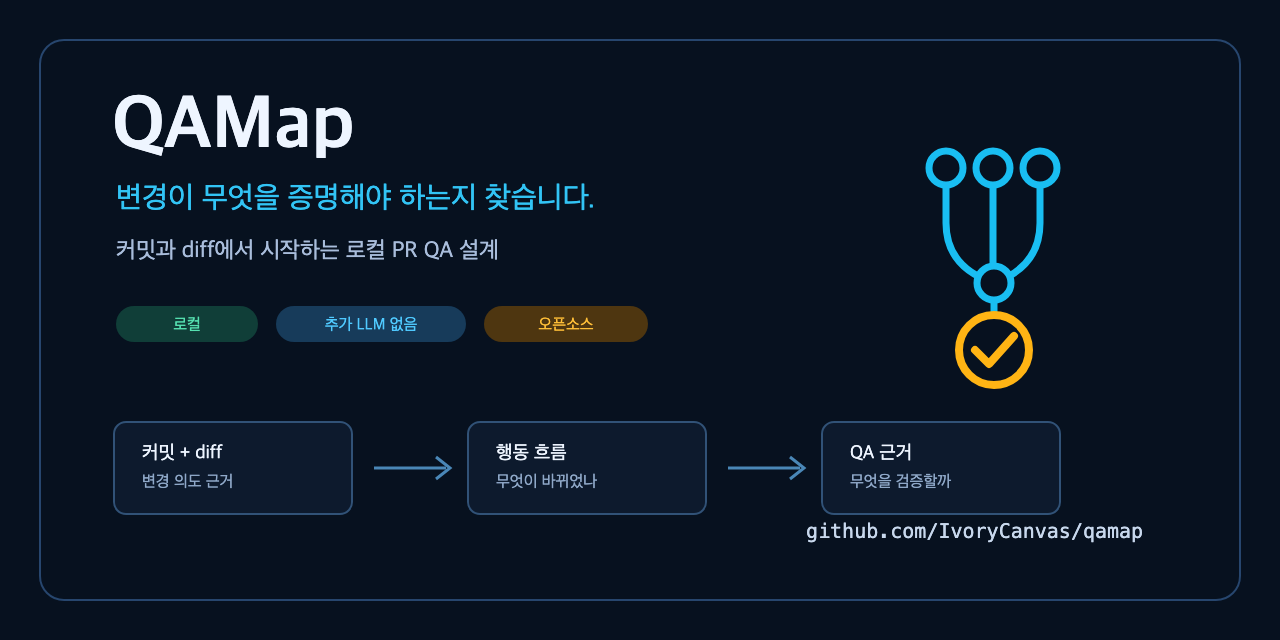
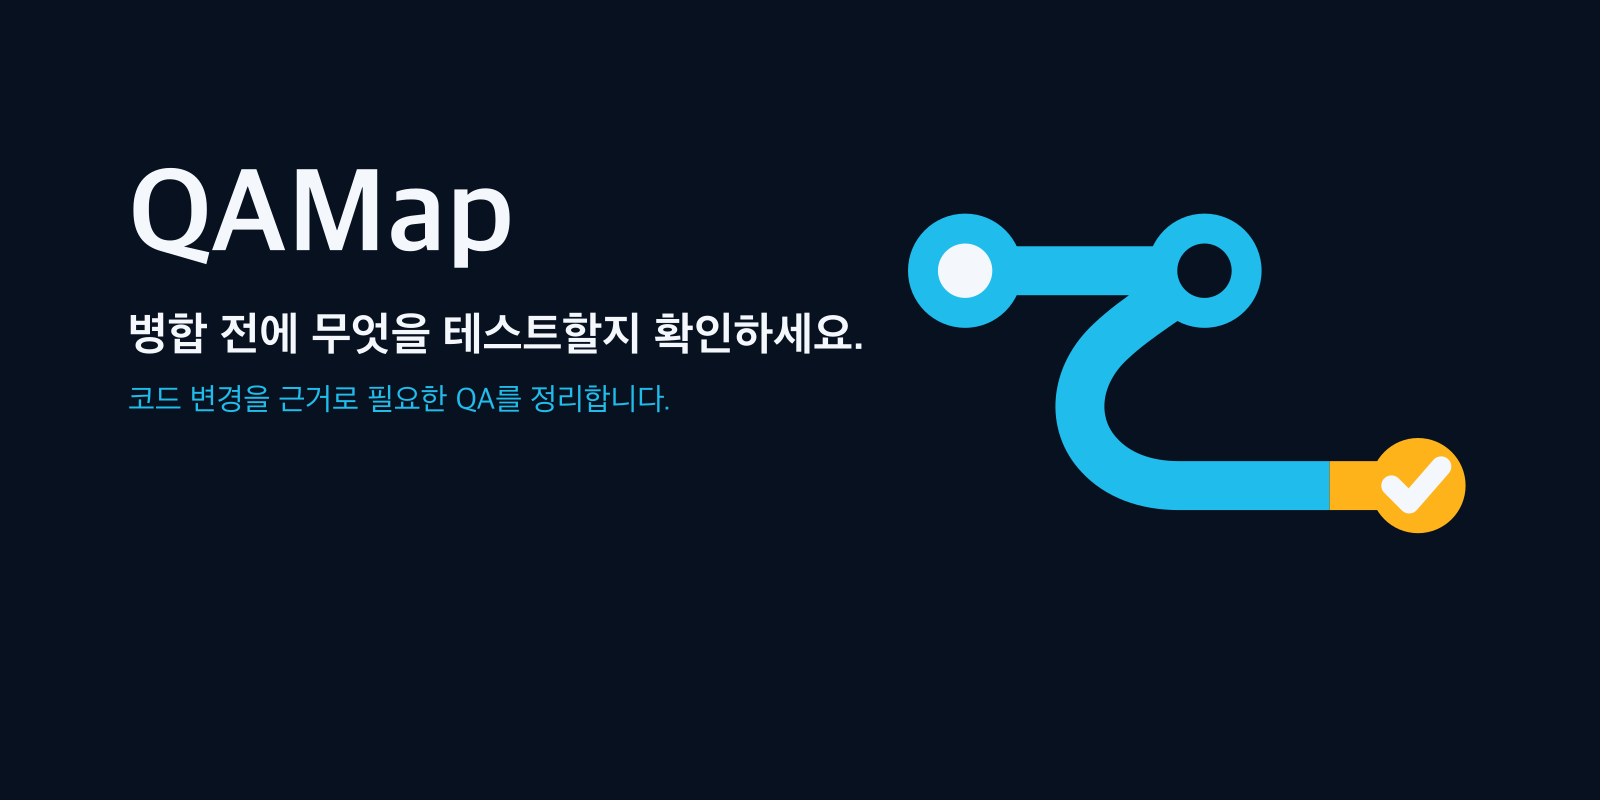
style: refresh public brand assets (#223)

diff --git a/docs/plugin-submission.md b/docs/plugin-submission.md
@@ -2,12 +2,18 @@
 
 QAMap packages one `skills-only` plugin for the shared OpenAI Plugins Directory. It reuses the same local CLI and `qamap.qa` contract as every other QAMap integration. It does not add an MCP server, hosted service, background hook, or second QA engine.
 
-QAMap `0.4.12` is currently approved and [published in the OpenAI Plugin Directory](https://chatgpt.com/plugins/plugins_6a752ca134a481919b90c45c09ab1629). npm and GitHub releases can move ahead independently; a newer directory version requires a fresh upload and review. This repository remains the source of truth for the reviewed skill package and future listing updates.
+QAMap is [published in the OpenAI Plugin Directory](https://chatgpt.com/plugins/plugins_6a752ca134a481919b90c45c09ab1629). npm, GitHub, and directory releases move independently. The public listing is the source of truth for the currently approved directory version; a newer npm or GitHub release requires a fresh upload and review before it appears there.
 
 Publishing a newer npm package or repository release does not update the
 directory listing automatically. Keep the approved version available, upload
 the replacement package as a new plugin version, and publish it only after the
 replacement passes review.
+
+| Channel | Current version source | How it updates |
+| --- | --- | --- |
+| npm | [npm package](https://www.npmjs.com/package/@ivorycanvas/qamap) | Maintainer publication |
+| GitHub | [GitHub Releases](https://github.com/IvoryCanvas/QAMap/releases) | Tagged repository release |
+| OpenAI Plugin Directory | [Public QAMap listing](https://chatgpt.com/plugins/plugins_6a752ca134a481919b90c45c09ab1629) | Separate upload, review, and publication |
 
 ## Product Boundary
 
@@ -26,6 +32,7 @@ replacement passes review.
 | `skills/qamap-pr-qa/SKILL.md` | The single agent workflow |
 | `skills/qamap-pr-qa/agents/openai.yaml` | Skill presentation and invocation metadata |
 | `plugin/submission.json` | Listing copy, starter prompts, and evaluation cases |
+| `plugin/assets/` | Dedicated light and dark plugin and composer icons |
 | `PRIVACY.md` | Local data and network boundaries |
 | `TERMS.md` | Usage terms and warranty boundary |
 | `SUPPORT.md` | Public support and security routes |
@@ -47,6 +54,21 @@ pnpm plugin:smoke
 
 The repository CI and `release:check` run both gates.
 
+## Listing Images
+
+Use the dedicated image for each upload slot instead of resizing or cropping a
+README cover:
+
+| Upload slot | Repository asset |
+| --- | --- |
+| Plugin icon, light mode | `plugin/assets/qamap-plugin-light-256.png` |
+| Plugin icon, dark mode | `plugin/assets/qamap-plugin-dark-256.png` |
+| Composer icon, light mode | `plugin/assets/qamap-composer-light-48.png` |
+| Composer icon, dark mode | `plugin/assets/qamap-composer-dark-48.png` |
+
+The portable skill continues to use the canonical 512px icon at
+`skills/qamap-pr-qa/assets/qamap-logo.png`.
+
 ## Maintainer Submission And Update Sequence
 
 1. Complete the normal QAMap release gate and publish the exact package version referenced by the skill.
@@ -54,7 +76,7 @@ The repository CI and `release:check` run both gates.
 3. Confirm the submitting OpenAI account has completed identity verification and has Apps Management write permission.
 4. Open the [OpenAI plugin submission portal](https://platform.openai.com/plugins) and create a skills-only submission.
 5. Use `plugin/submission.json` as the source of truth for listing copy, starter prompts, and the five positive and three negative evaluations.
-6. Upload the canonical logo from `skills/qamap-pr-qa/assets/qamap-logo.png`.
+6. Upload all four dedicated images listed in **Listing Images**.
 7. Review every requested permission and test receipt before submitting.
 8. For a new plugin version, keep the currently published listing available until the replacement has been reviewed and is visible.
 

diff --git a/docs/releasing.md b/docs/releasing.md
@@ -24,6 +24,8 @@ Before publishing, confirm:
 - The canonical release identifier is `vX.Y.Z` (for example, `v0.4.0`). The Git tag and GitHub Release title must match this identifier exactly.
 - `CHANGELOG.md` has a dated section for the version being published.
 - `README.md`, [adoption](adoption.md), [E2E examples](e2e-output-examples.md), and [release validation](release-validation.md) describe the current CLI behavior.
+- npm, GitHub Releases, and the OpenAI Plugin Directory are described as independent release channels; no document hard-codes an older directory version as current.
+- If public branding changed, the README covers, skill icon, dedicated plugin upload images, and `docs/assets/qamap-social-card.png` have been reviewed at their intended sizes.
 - `pnpm run release:check` passes from a clean checkout.
 - Representative repository smoke notes in [release validation](release-validation.md) do not hit any stop condition.
 - npm login is available for a maintainer with publish permission for the `@ivorycanvas/qamap` package.
@@ -104,6 +106,10 @@ pnpm dlx "@ivorycanvas/qamap@$VERSION" e2e draft . --base origin/main --head HEA
 Use a fresh shell or temporary directory for the smoke check when possible.
 
 If the release is the version pinned by the OpenAI skill package, also run the published-package form of the smoke before submitting the plugin. The directory submission must refer to a package version that already resolves from the public registry. Follow [the plugin submission runbook](plugin-submission.md); npm publication does not imply directory approval.
+
+GitHub does not read a social preview image from Markdown automatically. After a
+brand update, upload `docs/assets/qamap-social-card.png` under the repository's
+social preview setting and verify the resulting card separately.
 
 ## GitHub Release
 

diff --git a/docs/agent-skill.md b/docs/agent-skill.md
@@ -104,7 +104,7 @@ pnpm plugin:check
 pnpm plugin:smoke
 ```
 
-Public directory availability is not implied by the presence of either manifest alone. QAMap `0.4.11` is currently [published in the OpenAI Plugin Directory](https://chatgpt.com/plugins/plugins_6a752ca134a481919b90c45c09ab1629). `qamap init --agent` and the portable skill install remain vendor-neutral onboarding paths. The full skills-only boundary and submission sequence are documented in [plugin-submission.md](plugin-submission.md).
+Public directory availability is not implied by the presence of either manifest alone. QAMap is currently [published in the OpenAI Plugin Directory](https://chatgpt.com/plugins/plugins_6a752ca134a481919b90c45c09ab1629), whose public listing is the source of truth for the approved directory version. `qamap init --agent` and the portable skill install remain vendor-neutral onboarding paths. The full skills-only boundary and submission sequence are documented in [plugin-submission.md](plugin-submission.md).
 
 ## What The Agent Should Do With The Output
 

diff --git a/README.ko.md b/README.ko.md
@@ -6,9 +6,9 @@
 [![npm version](https://img.shields.io/npm/v/@ivorycanvas/qamap.svg)](https://www.npmjs.com/package/@ivorycanvas/qamap)
 [![License: MIT](https://img.shields.io/badge/License-MIT-blue.svg)](LICENSE)
 
-![QAMap: 이 PR에서 꼭 확인해야 할 부분을 찾아줍니다](docs/assets/qamap-cover-ko.svg)
+![QAMap: 병합 전에 무엇을 테스트할지 확인하세요](docs/assets/qamap-cover-ko.png)
 
-**이 PR에서 꼭 확인해야 할 부분을 찾아줍니다.**
+**병합 전에 무엇을 테스트할지 확인하세요.**
 
 QAMap은 현재 브랜치의 커밋과 코드 변경, 저장소 구조, 기존 테스트를
 로컬에서 살펴보고 병합 전에 확인할 내용을 정리하는 CLI입니다.

diff --git a/README.md b/README.md
@@ -6,7 +6,7 @@
 [![npm version](https://img.shields.io/npm/v/@ivorycanvas/qamap.svg)](https://www.npmjs.com/package/@ivorycanvas/qamap)
 [![License: MIT](https://img.shields.io/badge/License-MIT-blue.svg)](LICENSE)
 
-![QAMap: find what a change needs to prove](docs/assets/qamap-cover.png)
+![QAMap: know what to test before merge](docs/assets/qamap-cover.png)
 
 **Find what a change needs to prove before merge.**
 
